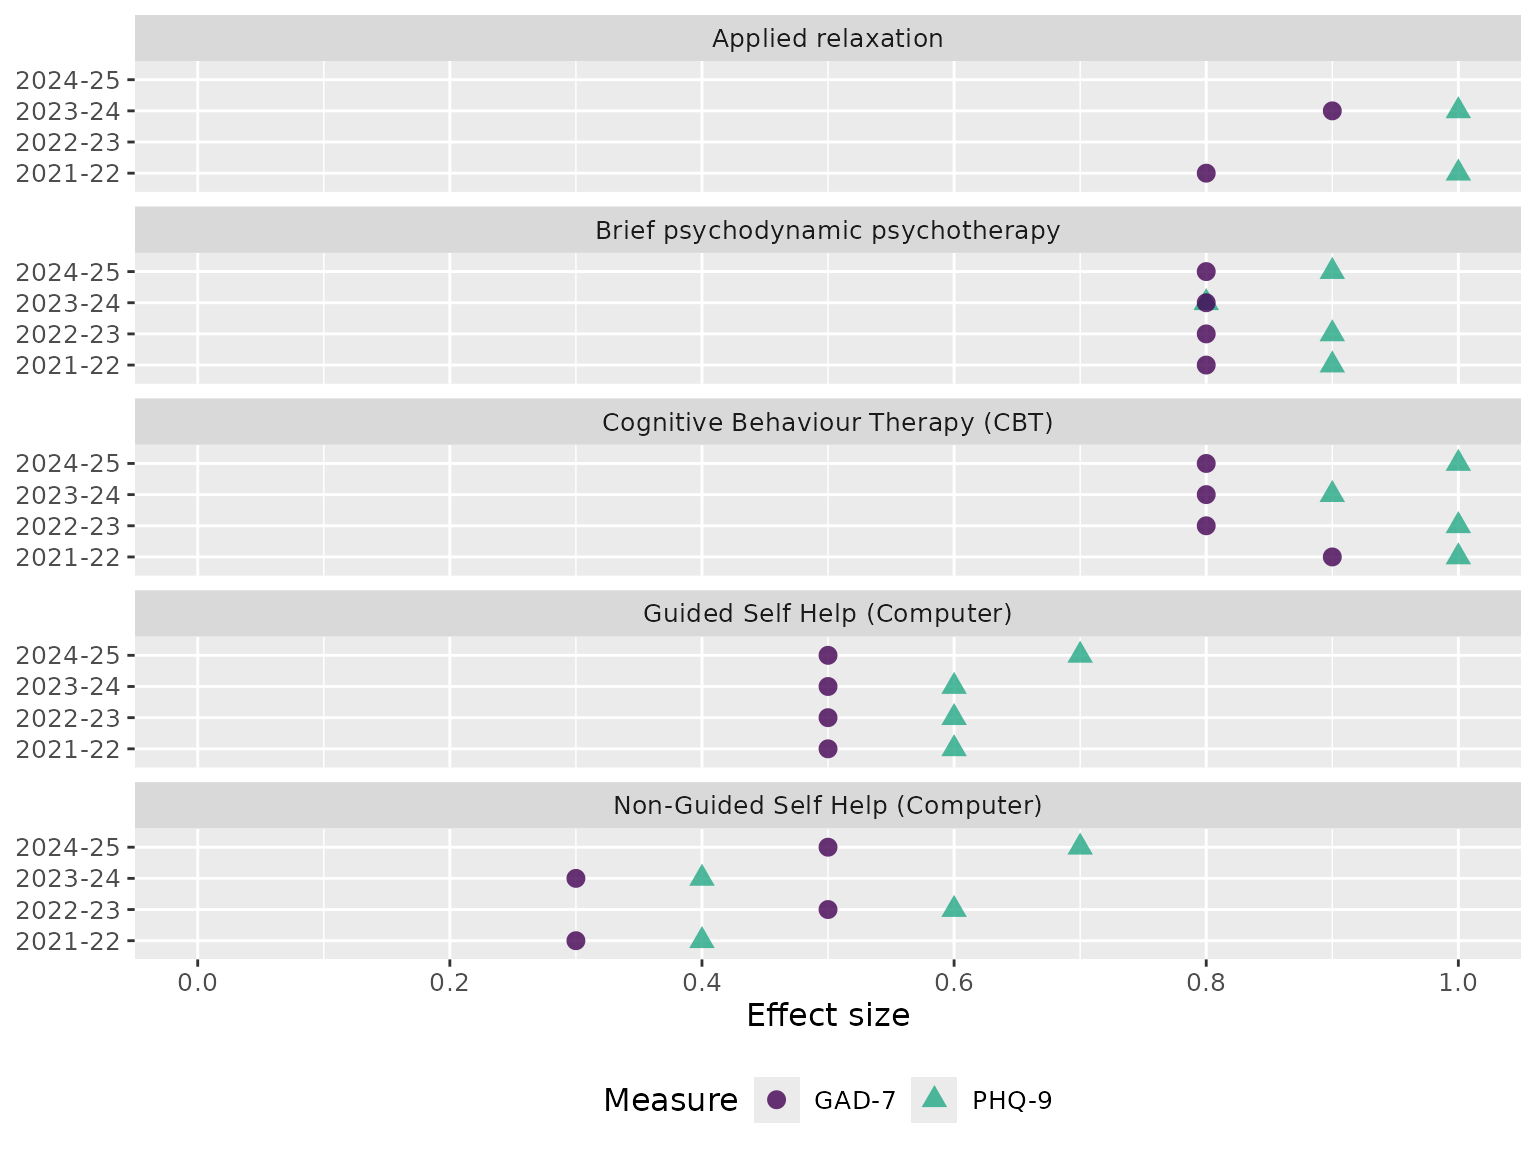
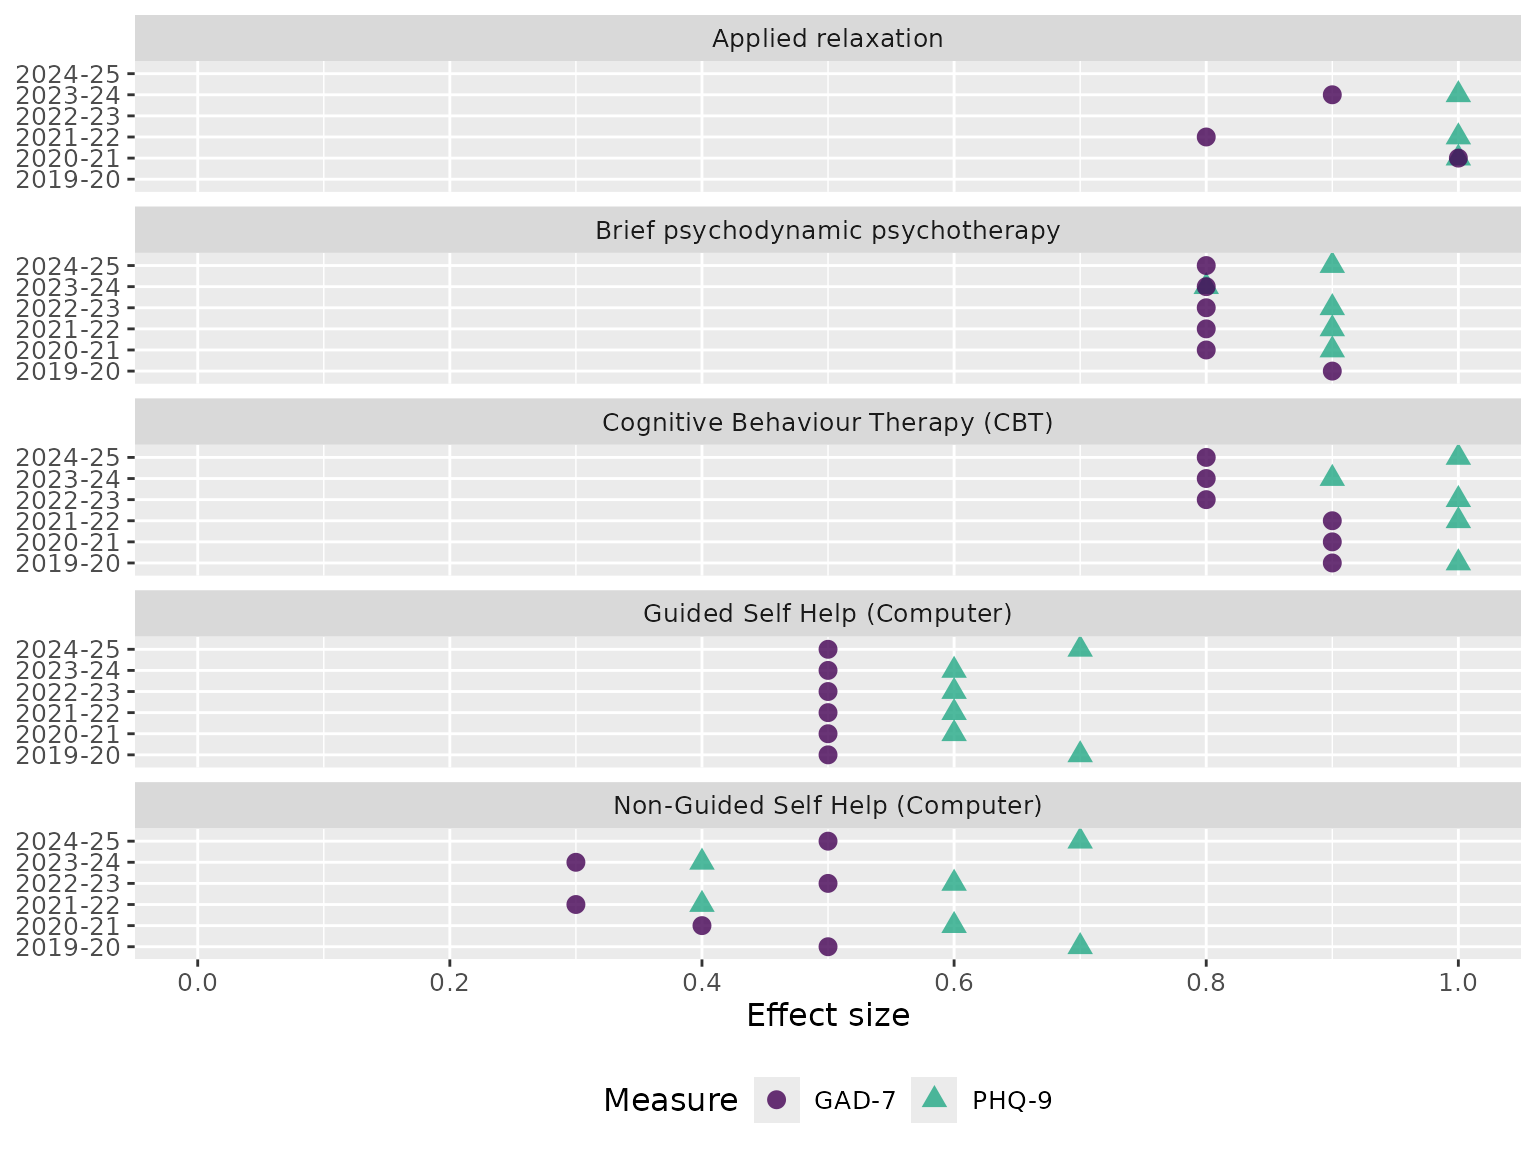
Deploying to gh-pages from @ bennettoxford/nhstt@a179868dfa603e2fa122b17d6807eee8786c3d27 🚀

diff --git a/index.html b/index.html
@@ -143,16 +143,16 @@
 </tr>
 <tr class="even">
 <td align="left"><code><a href="reference/get_proms_annual.html">get_proms_annual()</a></code></td>
-<td align="left">2022-23</td>
+<td align="left">2019-20</td>
 <td align="left">2024-25</td>
-<td align="right">3</td>
+<td align="right">6</td>
 <td align="right">0.1.0</td>
 </tr>
 <tr class="odd">
 <td align="left"><code><a href="reference/get_therapy_position_annual.html">get_therapy_position_annual()</a></code></td>
-<td align="left">2022-23</td>
+<td align="left">2019-20</td>
 <td align="left">2024-25</td>
-<td align="right">3</td>
+<td align="right">6</td>
 <td align="right">0.1.0</td>
 </tr>
 </tbody>
@@ -249,27 +249,27 @@
 <tbody>
 <tr class="odd">
 <td align="left"><code><a href="reference/get_key_measures_annual.html">get_key_measures_annual()</a></code></td>
-<td align="right">1.2 sec</td>
-<td align="right">16 sec</td>
-<td align="right">2.3 min</td>
+<td align="right">1.9 sec</td>
+<td align="right">32.5 sec</td>
+<td align="right">4.6 min</td>
 </tr>
 <tr class="even">
 <td align="left"><code><a href="reference/get_proms_annual.html">get_proms_annual()</a></code></td>
-<td align="right">0.52 sec</td>
-<td align="right">31.2 sec</td>
-<td align="right">1.6 min</td>
+<td align="right">0.88 sec</td>
+<td align="right">1.1 min</td>
+<td align="right">6.7 min</td>
 </tr>
 <tr class="odd">
 <td align="left"><code><a href="reference/get_therapy_position_annual.html">get_therapy_position_annual()</a></code></td>
-<td align="right">0.26 sec</td>
-<td align="right">0.07 sec</td>
-<td align="right">1 sec</td>
+<td align="right">0.66 sec</td>
+<td align="right">0.86 sec</td>
+<td align="right">9.1 sec</td>
 </tr>
 <tr class="even">
 <td align="left"><code><a href="reference/get_activity_performance_monthly.html">get_activity_performance_monthly()</a></code></td>
-<td align="right">4.3 sec</td>
-<td align="right">0.52 sec</td>
-<td align="right">2.4 min</td>
+<td align="right">2.6 sec</td>
+<td align="right">1.5 sec</td>
+<td align="right">2 min</td>
 </tr>
 </tbody>
 </table>

diff --git a/reference/available_nhstt_reports.html b/reference/available_nhstt_reports.html
@@ -92,8 +92,8 @@ their time period coverage and frequency</p>
 <span class="r-out co"><span class="r-pr">#&gt;</span>    dataset       frequency title get_function first_period last_period n_periods</span>
 <span class="r-out co"><span class="r-pr">#&gt;</span>    <span style="color: #949494; font-style: italic;">&lt;chr&gt;</span>         <span style="color: #949494; font-style: italic;">&lt;chr&gt;</span>     <span style="color: #949494; font-style: italic;">&lt;chr&gt;</span> <span style="color: #949494; font-style: italic;">&lt;chr&gt;</span>        <span style="color: #949494; font-style: italic;">&lt;chr&gt;</span>        <span style="color: #949494; font-style: italic;">&lt;chr&gt;</span>           <span style="color: #949494; font-style: italic;">&lt;int&gt;</span></span>
 <span class="r-out co"><span class="r-pr">#&gt;</span> <span style="color: #BCBCBC;"> 1</span> key_measures… annual    Key … get_key_mea… 2017-18      2024-25             8</span>
-<span class="r-out co"><span class="r-pr">#&gt;</span> <span style="color: #BCBCBC;"> 2</span> proms_annual  annual    Pati… get_proms_a… 2021-22      2024-25             4</span>
-<span class="r-out co"><span class="r-pr">#&gt;</span> <span style="color: #BCBCBC;"> 3</span> therapy_posi… annual    Ther… get_therapy… 2021-22      2024-25             4</span>
+<span class="r-out co"><span class="r-pr">#&gt;</span> <span style="color: #BCBCBC;"> 2</span> proms_annual  annual    Pati… get_proms_a… 2019-20      2024-25             6</span>
+<span class="r-out co"><span class="r-pr">#&gt;</span> <span style="color: #BCBCBC;"> 3</span> therapy_posi… annual    Ther… get_therapy… 2019-20      2024-25             6</span>
 <span class="r-out co"><span class="r-pr">#&gt;</span> <span style="color: #BCBCBC;"> 4</span> activity_per… monthly   Acti… get_activit… 2023-05      2025-09            29</span>
 <span class="r-out co"><span class="r-pr">#&gt;</span> <span style="color: #BCBCBC;"> 5</span> metadata_mea… annual    Annu… get_metadat… 2024-25      2024-25             1</span>
 <span class="r-out co"><span class="r-pr">#&gt;</span> <span style="color: #BCBCBC;"> 6</span> metadata_mea… annual    Annu… get_metadat… 2024-25      2024-25             1</span>

diff --git a/index.md b/index.md
@@ -35,8 +35,8 @@ ap_monthly <- get_activity_performance_monthly()
 | Function                                                                                                          | First period | Last period | Count periods | Version |
 |:------------------------------------------------------------------------------------------------------------------|:-------------|:------------|--------------:|--------:|
 | [`get_key_measures_annual()`](https://bennettoxford.github.io/nhstt/reference/get_key_measures_annual.md)         | 2017-18      | 2024-25     |             8 |   0.2.0 |
-| [`get_proms_annual()`](https://bennettoxford.github.io/nhstt/reference/get_proms_annual.md)                       | 2022-23      | 2024-25     |             3 |   0.1.0 |
-| [`get_therapy_position_annual()`](https://bennettoxford.github.io/nhstt/reference/get_therapy_position_annual.md) | 2022-23      | 2024-25     |             3 |   0.1.0 |
+| [`get_proms_annual()`](https://bennettoxford.github.io/nhstt/reference/get_proms_annual.md)                       | 2019-20      | 2024-25     |             6 |   0.1.0 |
+| [`get_therapy_position_annual()`](https://bennettoxford.github.io/nhstt/reference/get_therapy_position_annual.md) | 2019-20      | 2024-25     |             6 |   0.1.0 |
 
 ### Monthly data
 
@@ -61,10 +61,10 @@ setup.
 
 | Function                                                                                                                    | Download per period | Tidy per period | Total (all periods) |
 |:----------------------------------------------------------------------------------------------------------------------------|--------------------:|----------------:|--------------------:|
-| [`get_key_measures_annual()`](https://bennettoxford.github.io/nhstt/reference/get_key_measures_annual.md)                   |             1.2 sec |          16 sec |             2.3 min |
-| [`get_proms_annual()`](https://bennettoxford.github.io/nhstt/reference/get_proms_annual.md)                                 |            0.52 sec |        31.2 sec |             1.6 min |
-| [`get_therapy_position_annual()`](https://bennettoxford.github.io/nhstt/reference/get_therapy_position_annual.md)           |            0.26 sec |        0.07 sec |               1 sec |
-| [`get_activity_performance_monthly()`](https://bennettoxford.github.io/nhstt/reference/get_activity_performance_monthly.md) |             4.3 sec |        0.52 sec |             2.4 min |
+| [`get_key_measures_annual()`](https://bennettoxford.github.io/nhstt/reference/get_key_measures_annual.md)                   |             1.9 sec |        32.5 sec |             4.6 min |
+| [`get_proms_annual()`](https://bennettoxford.github.io/nhstt/reference/get_proms_annual.md)                                 |            0.88 sec |         1.1 min |             6.7 min |
+| [`get_therapy_position_annual()`](https://bennettoxford.github.io/nhstt/reference/get_therapy_position_annual.md)           |            0.66 sec |        0.86 sec |             9.1 sec |
+| [`get_activity_performance_monthly()`](https://bennettoxford.github.io/nhstt/reference/get_activity_performance_monthly.md) |             2.6 sec |         1.5 sec |               2 min |
 
 ## For developers
 

diff --git a/reference/available_nhstt_reports.md b/reference/available_nhstt_reports.md
@@ -21,8 +21,8 @@ available_nhstt_reports()
 #>    dataset       frequency title get_function first_period last_period n_periods
 #>    <chr>         <chr>     <chr> <chr>        <chr>        <chr>           <int>
 #>  1 key_measures… annual    Key … get_key_mea… 2017-18      2024-25             8
-#>  2 proms_annual  annual    Pati… get_proms_a… 2021-22      2024-25             4
-#>  3 therapy_posi… annual    Ther… get_therapy… 2021-22      2024-25             4
+#>  2 proms_annual  annual    Pati… get_proms_a… 2019-20      2024-25             6
+#>  3 therapy_posi… annual    Ther… get_therapy… 2019-20      2024-25             6
 #>  4 activity_per… monthly   Acti… get_activit… 2023-05      2025-09            29
 #>  5 metadata_mea… annual    Annu… get_metadat… 2024-25      2024-25             1
 #>  6 metadata_mea… annual    Annu… get_metadat… 2024-25      2024-25             1